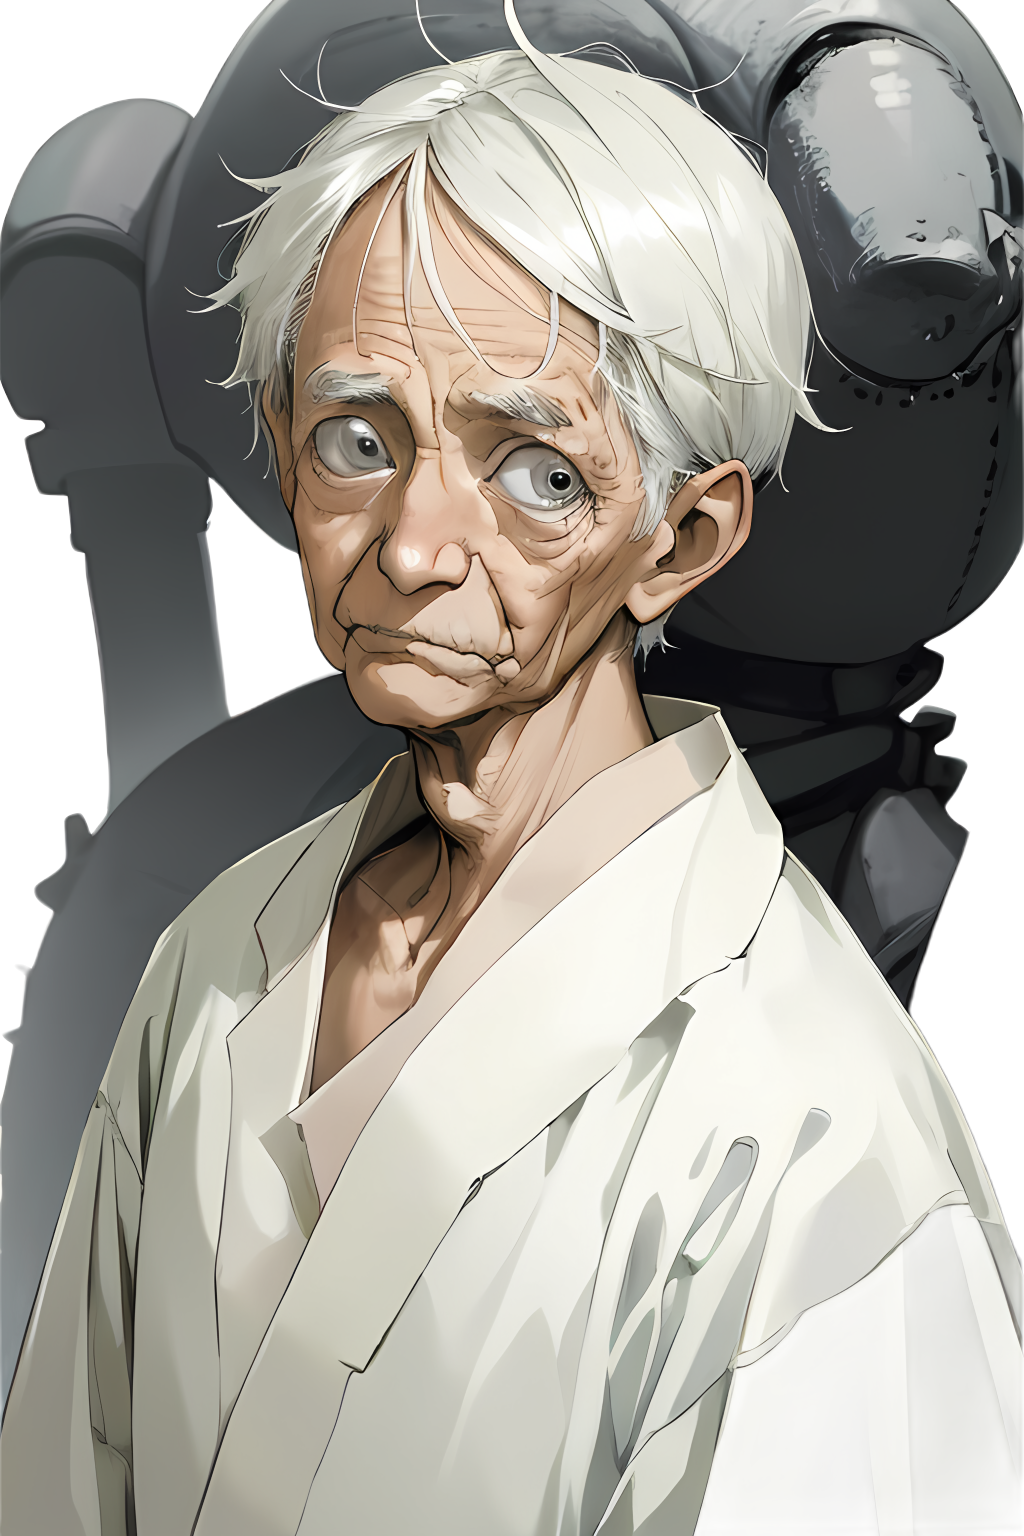
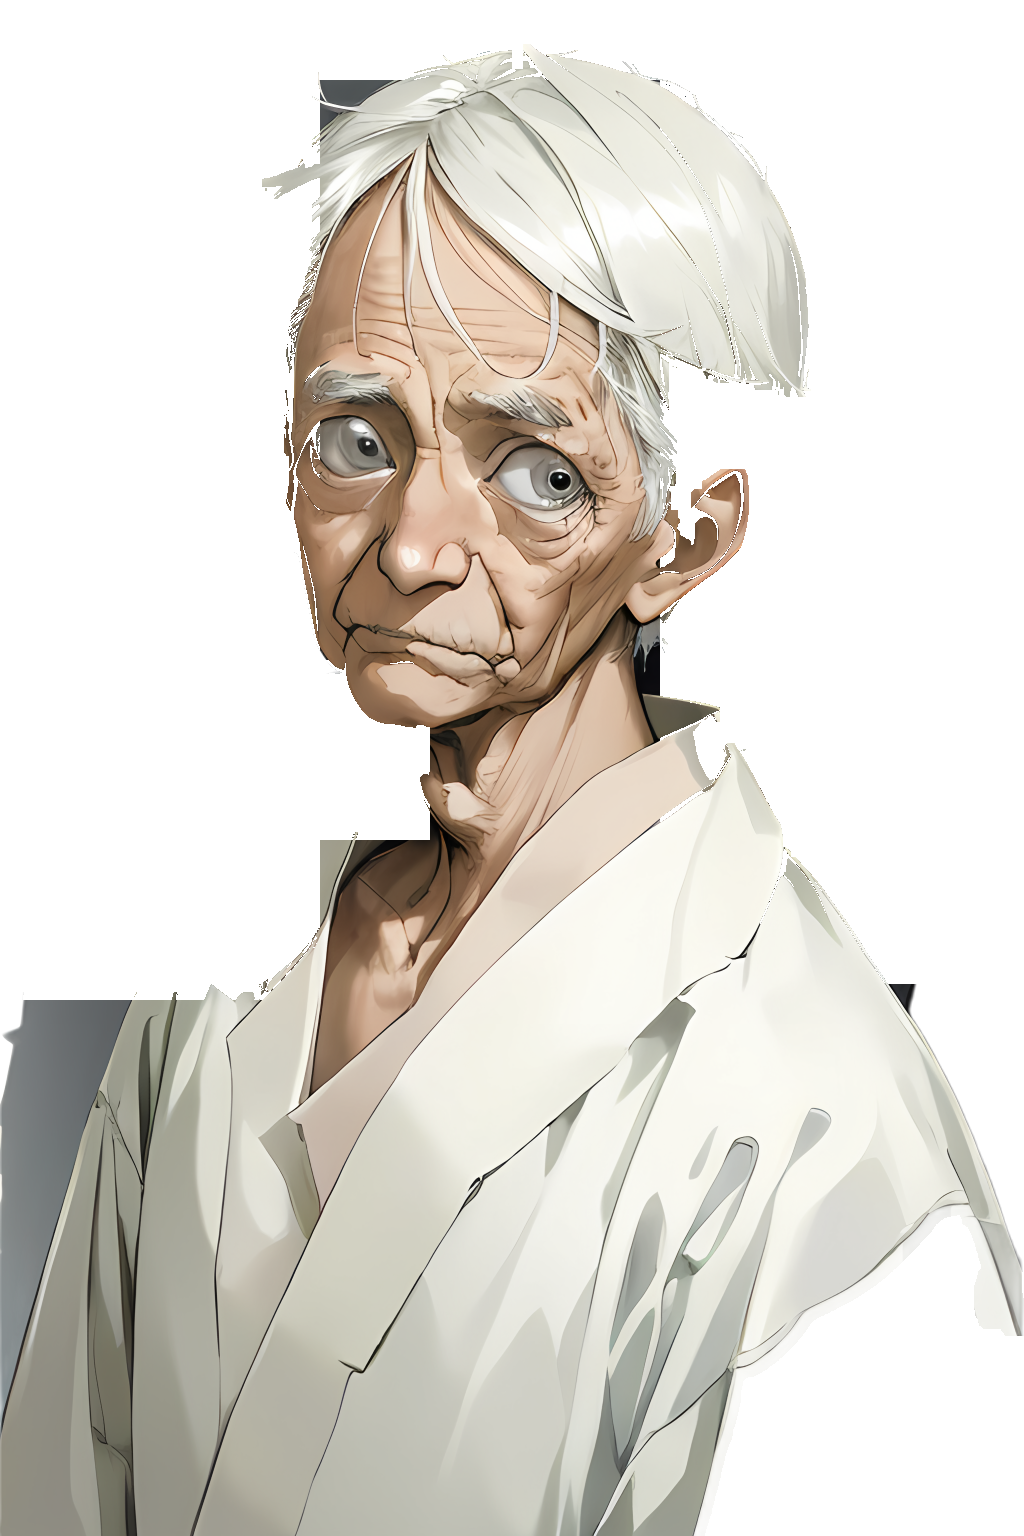
Covers for all six story videos; Arthur's cutout cleared of the machine painted behind him
Claude-Session: https://claude.ai/code/session_0153qDV4AufFgT2PhEBEfS8n

diff --git a/channels/stories/thumbs.py b/channels/stories/thumbs.py
@@ -7,6 +7,8 @@ import sys
 
 ROOT = os.path.dirname(os.path.dirname(os.path.dirname(os.path.abspath(__file__))))
 sys.path.insert(0, ROOT)
+if len(sys.argv) > 1 and sys.argv[1].endswith("_long"):     # long videos: a 16:9 cover (set before the engine loads)
+    os.environ["CANVAS"] = "landscape"
 os.environ.setdefault("FONTCONFIG_FILE", os.path.join(ROOT, "build", "fonts.conf"))
 from motion.engine import W, H, cairo   # noqa: E402
 from motion import satsuei   # noqa: E402
@@ -15,6 +17,7 @@ from channels.horror import hud2d   # noqa: E402
 from channels.horror.thumbs import big_text, chip   # noqa: E402
 from channels.horror.toon2d import glow   # noqa: E402
 from channels.stories import dma_anime as A   # noqa: E402
+from channels.stories import boy_anime as B   # noqa: E402
 
 OUT = os.path.join(ROOT, "out", "stories", "thumbs")
 
@@ -56,7 +59,86 @@ def dma_s2(cr):
     chip(cr, "DEAD MAN'S ALGORITHM · PART 2")
 
 
-THUMBS = {"dma_s1": dma_s1, "dma_s2": dma_s2}
+def _top_shade(cr, h=470):
+    g = cairo.LinearGradient(0, 100, 0, h)
+    g.add_color_stop_rgba(0, 0, 0, 0, 0.75)
+    g.add_color_stop_rgba(1, 0, 0, 0, 0)
+    cr.set_source(g)
+    cr.paint()
+
+
+def boy_s1(cr):
+    """Neil lit by his screens at night, the account figure huge: $5,014,382.61 · ONE DAY LEFT."""
+    t = 20.0
+    B.trading_room(cr, t, balance=None)
+    B.bust(cr, W * 0.5, H * 0.95, 1.7, t, "neil", "focus")
+    glow(cr, W * 0.5, H * 0.55, 600, (0.3, 1, 0.6), 0.18)
+    satsuei.apply(cr, t, glow=0.3, light=((0.5, 0.35), (0.5, 0.8, 1.0), 0.2), ca=1.5, grain=0.03)
+    _top_shade(cr)
+    big_text(cr, [("$5,014,382.61", (0.45, 1, 0.65, 1)), ("ONE DAY LEFT.", hud2d.RED)], 250, 112)
+    chip(cr, "THE BOY WHO INHERITED ANOTHER BODY · 1")
+
+
+def boy_s2(cr):
+    """The old face in the hospital bed, grief in his eyes, the city below: HE WOKE UP 82."""
+    t = 20.0
+    B.hospital(cr, t)
+    cr.set_source_rgba(0.0, 0.02, 0.06, 0.3)
+    cr.paint()
+    B.bust(cr, W * 0.5, H * 0.97, 2.1, t, "arthur", "grief")
+    satsuei.apply(cr, t, glow=0.28, light=((0.5, 0.1), (0.6, 0.75, 1.0), 0.2), ca=1.5, grain=0.03)
+    _top_shade(cr)
+    big_text(cr, [("HE DIED AT 17.", (1, 1, 1, 1)), ("HE WOKE UP 82.", hud2d.RED)], 250, 112)
+    chip(cr, "THE BOY WHO INHERITED ANOTHER BODY · 2")
+
+
+def dma_long(cr):
+    """16:9: the classroom burning orange, Ren frightened on the right, the meteor in the windows: 12:17."""
+    t = 30.0
+    A.classroom(cr, t, meteor=0.85)
+    A.student_bust(cr, W * 0.72, H * 1.02, 1.05, t, "ren", "fear")
+    satsuei.apply(cr, t, glow=0.3, light=((0.2, 0.2), (1.0, 0.75, 0.5), 0.25), ca=1.2, grain=0.03)
+    g = cairo.LinearGradient(0, 0, W * 0.6, 0)
+    g.add_color_stop_rgba(0, 0, 0, 0, 0.7)
+    g.add_color_stop_rgba(1, 0, 0, 0, 0)
+    cr.set_source(g)
+    cr.paint()
+    for k, (txt, col, sz) in enumerate((("12:17.", (1, 1, 1, 1), 120), ("THE SKY FELL", hud2d.RED, 74),
+                                        ("ON US.", hud2d.RED, 74))):
+        hud2d._text(cr, txt, 60, 250 + k * 92 + (30 if k else 0), sz, col, hud2d.ROUND, "left", outline=(0, 0, 0, 1),
+                    ow=sz * 0.14, shadow=0.6)
+    hud2d._text(cr, "DEAD MAN'S ALGORITHM · CHAPTER 1", 60, 120, 30, (1, 0.85, 0.4, 1), hud2d.ROUND, "left",
+                shadow=0.6)
+
+
+def boy_long(cr):
+    """16:9: Neil on the left, Arthur on the right, the same eyes: 17 -> 82."""
+    t = 20.0
+    cr.save()
+    cr.rectangle(0, 0, W / 2, H)
+    cr.clip()
+    B.trading_room(cr, t)
+    B.bust(cr, W * 0.25, H * 1.12, 1.3, t, "neil", "fear")
+    cr.restore()
+    cr.save()
+    cr.rectangle(W / 2, 0, W / 2, H)
+    cr.clip()
+    B.hospital(cr, t)
+    B.bust(cr, W * 0.75, H * 1.12, 1.3, t, "arthur", "grief")
+    cr.restore()
+    satsuei.apply(cr, t, glow=0.28, ca=1.2, grain=0.03)
+    cr.set_source_rgba(1, 1, 1, 0.9)
+    cr.rectangle(W / 2 - 3, 0, 6, H)
+    cr.fill()
+    for x, txt in ((W * 0.25, "17"), (W * 0.75, "82")):
+        hud2d._text(cr, txt, x, 170, 150, (1, 1, 1, 1), hud2d.ROUND, "center", outline=(0, 0, 0, 1), ow=20,
+                    shadow=0.6)
+    hud2d._text(cr, "SAME MIND.", W / 2, H * 0.47, 64, hud2d.RED, hud2d.ROUND, "center", outline=(0, 0, 0, 1), ow=10,
+                shadow=0.6)
+
+
+THUMBS = {"dma_s1": dma_s1, "dma_s2": dma_s2, "dma_long": dma_long, "boy_s1": boy_s1, "boy_s2": boy_s2,
+          "boy_long": boy_long}
 
 if __name__ == "__main__":
     name = sys.argv[1]

diff --git a/channels/stories/boy_cast.py b/channels/stories/boy_cast.py
@@ -21,7 +21,9 @@ CHARS = {   # one look per character for every scene (consistency first)
     "arthur": dict(tags="1boy, old man, very old, wrinkled face, thin white hair, grey eyes, frail, hospital gown",
                    neg="young, muscular, beard", seed=11, face=(125, 160, 345, 380), eyes=(140, 195, 300, 268),
                    mouth=(190, 300, 262, 342), extra=("grief",),
-                   face_tags="1boy, old man, very old, wrinkled face, thin white hair, grey eyes, clean-shaven"),
+                   face_tags="1boy, old man, very old, wrinkled face, thin white hair, grey eyes, clean-shaven",
+                   clear_grey=((0, 0, 160, 500), (100, 0, 512, 40), (330, 0, 512, 420), (380, 400, 512, 492),
+                               (150, 330, 215, 420))),             # a machine painted behind him
     "nurse": dict(tags="1girl, adult woman, nurse, teal scrubs, brown hair, hair bun, brown eyes, calm", seed=11,
                   face=(190, 150, 410, 370), eyes=(200, 190, 405, 270), mouth=(262, 300, 318, 336),
                   face_tags="1girl, adult woman, brown hair, hair bun, brown eyes"),

diff --git a/tools/anime_assets.py b/tools/anime_assets.py
@@ -250,6 +250,12 @@ def char(mod, name):
         a[y0:, :, 3][lum > 175] = 0
     for x0, y0, x1, y1 in c.get("clear", ()):         # stray props the model painted (512x768 coordinates)
         a[y0 * 2:y1 * 2, x0 * 2:x1 * 2, 3] = 0
+    for x0, y0, x1, y1 in c.get("clear_grey", ()):    # ... only grey, mid-dark pixels (a painted machine, a wall)
+        reg = a[y0 * 2:y1 * 2, x0 * 2:x1 * 2]
+        rgb = reg[..., :3].astype(np.float32)
+        sat = (rgb.max(axis=2) - rgb.min(axis=2)) / np.maximum(rgb.max(axis=2), 1)
+        lum = rgb.mean(axis=2)
+        reg[..., 3][((sat < 0.16) & (lum < 178)) | (lum < 70)] = 0
     for x0, y0, x1, y1 in c.get("clear_light", ()):   # ... only their pale parts, where they touch the body
         reg = a[y0 * 2:y1 * 2, x0 * 2:x1 * 2]
         reg[..., 3][reg[..., :3].mean(axis=2) > 110] = 0
